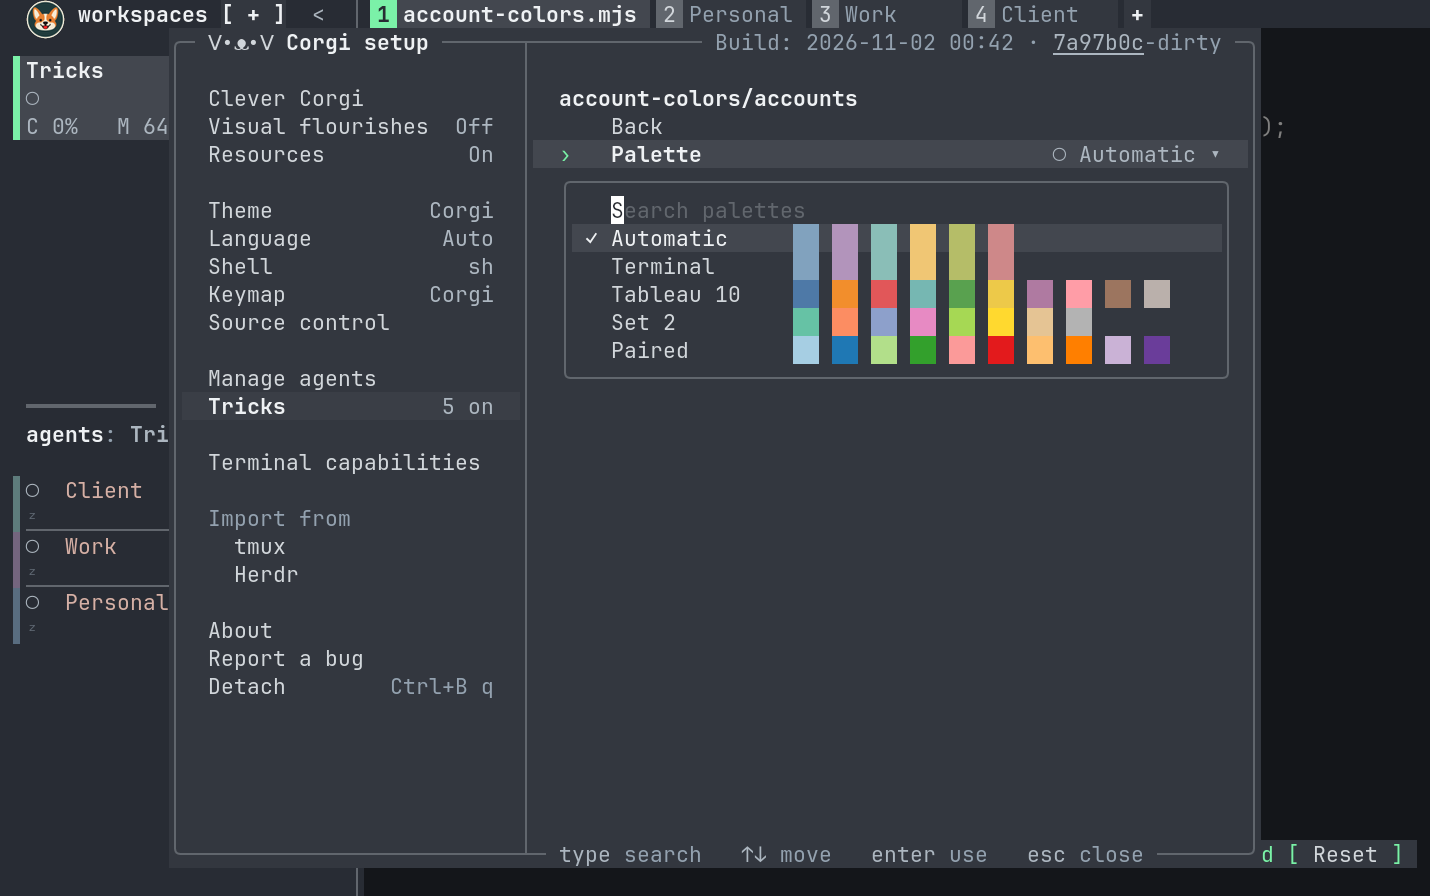
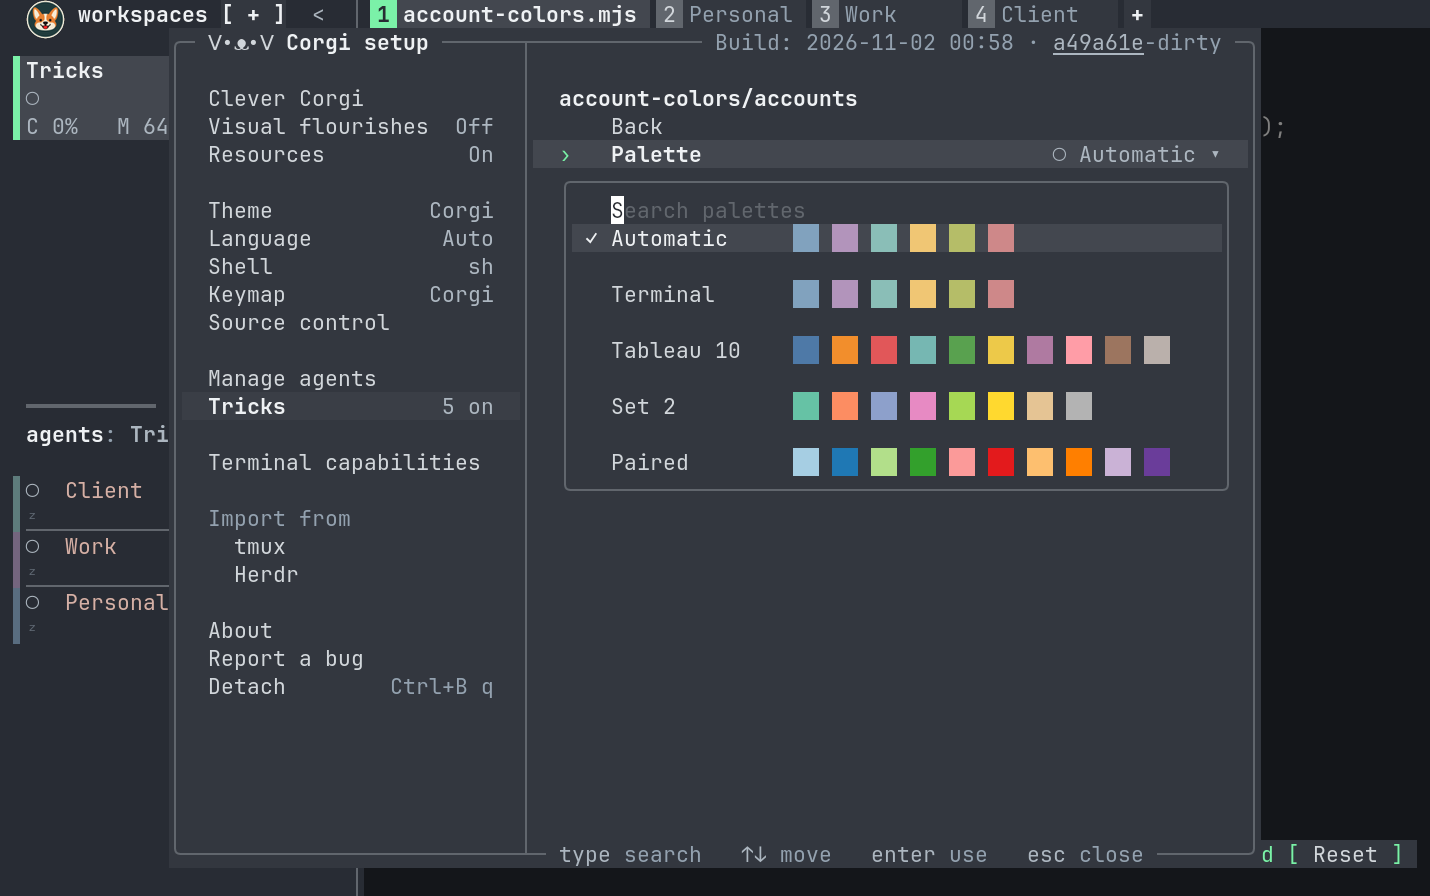
tricks: polish the palette editor
Align color swatches in one column and leave a blank row between palette
previews. Mouse selection follows the new spacing.

Account labels prefer the login email over the profile folder. Corgi now
exposes that email from its existing cached identity without waiting for a
usage read. Palette keys and saved color assignments stay intact.

diff --git a/src/corgi_setup.ts b/src/corgi_setup.ts
@@ -265,7 +265,7 @@ interface Option {
   glyph?: string;
   /** A dropdown in a group: the choice in use at the right edge, green while
    * `on`, and Enter opens `choices`. */
-  choice?: { text: string; on: boolean; choices: Choice[]; placeholder?: string };
+  choice?: { text: string; on: boolean; choices: Choice[]; placeholder?: string; gap?: number };
   /** A text field, in a box, that takes typing while it has the cursor. */
   edit?: boolean;
   slider?: number;
@@ -1152,7 +1152,7 @@ export class Menu {
         const search_width = modelColumns(choices, open.w).detail - 2;
         return x < open.x + 4 + search_width ? { model_search: x - open.x - 4 } : null;
       }
-      const index = dropdown.hit(open, this.dropdown?.visible.length ?? 0, x, y, true),
+      const index = dropdown.hit(open, this.dropdown?.visible.length ?? 0, x, y, true, this.dropdownGap(s, prefs)),
         at = index === null ? -1 : (this.dropdown?.visible[index] ?? -1);
       return at < 0 || (!choices[at]?.apply && !choices[at]?.more) ? null : { choice: at };
     }
@@ -1240,6 +1240,7 @@ export class Menu {
         { text: "", note: "", detail: this.item === "tricks" ? "" : i18n.t`Billing` },
         this.item === "tricks" ? undefined : columns.note,
         this.item === "tricks" ? undefined : columns.detail,
+        this.dropdownGap(s, prefs),
       );
       const x = open.x + 4,
         y = open.y + 1,
@@ -1359,6 +1360,10 @@ export class Menu {
       x0 = x + 2,
       right = x + width - 1,
       lines = this.lines(s, prefs, l),
+      color_w = Math.max(
+        0,
+        ...this.options(s, prefs).map(o => (o.color && o.choice ? displayWidth(o.choice.text) : 0)),
+      ),
       // Rows with their value at the right edge keep out of the label column.
       label_w = Math.max(
         0,
@@ -1483,7 +1488,7 @@ export class Menu {
           return;
         }
         case "option":
-          return this.drawOption(w, line, x, width, y, label_w, prefs, now_ms);
+          return this.drawOption(w, line, x, width, y, label_w, color_w, prefs, now_ms);
         case "picker":
           return this.import_picker.draw(w, pickerArea(l, i), this.focus === "options");
       }
@@ -1620,6 +1625,7 @@ export class Menu {
     width: number,
     y: number,
     label_w: number,
+    color_w: number,
     prefs: Preferences,
     now_ms: number,
   ) {
@@ -1663,7 +1669,7 @@ export class Menu {
         indent: o.indent,
       });
     if (o.choice !== undefined)
-      return settingRow.drawChoice(w, x, y, width, o.label, o.choice.text, o.choice.on, here, o.color);
+      return settingRow.drawChoice(w, x, y, width, o.label, o.choice.text, o.choice.on, here, o.color, color_w);
     if (o.edit) return this.drawField(w, x0, y, right, prefs);
     const p = settingRow.fill(w, x, y, width, here);
     if (o.mark !== "none")
@@ -1704,6 +1710,9 @@ export class Menu {
     }
     w.write("\x1b[22m");
   }
+  private dropdownGap(s: Status, prefs: Preferences): number {
+    return this.dropdown ? (this.options(s, prefs)[this.dropdown.option]?.choice?.gap ?? 0) : 0;
+  }
   /** The open dropdown's box, under its setting's row with ✓ under the ›;
    * null while it is closed. */
   private dropdownBox(l: Layout, s: Status, prefs: Preferences): Rect | null {
@@ -1713,8 +1722,9 @@ export class Menu {
     if (row < 0) return null;
     const choices = this.choices(s, prefs),
       count = choices.length,
-      h = Math.min(count + 3, l.body),
-      capacity = h - 3,
+      gap = this.dropdownGap(s, prefs),
+      h = Math.min(count + Math.max(0, count - 1) * gap + 3, l.body),
+      capacity = Math.floor((h - 3 + gap) / (gap + 1)),
       width = Math.min(l.b.w - 4, Math.max(l.options.w - 3, modelPreferredWidth(choices))),
       bottom = l.b.y + 2 + l.body;
     const view = dropdown.viewport(choices, d.top, d.at, capacity);
@@ -1866,6 +1876,7 @@ export class Menu {
                       text: trickPaletteUi.schemeName(picked.scheme),
                       on: picked.scheme !== null,
                       placeholder: i18n.t`Search palettes`,
+                      gap: 1,
                       choices: [
                         {
                           text: i18n.t`Automatic`,

diff --git a/src/dropdown.ts b/src/dropdown.ts
@@ -109,7 +109,8 @@ export function width(choices: Choice[], heading?: Heading): number {
   return indent(choices) + widest + 4;
 }
 /** Draws `choices` in `b`, under `heading` when present. `note_column` aligns
- * notes past that many cells of text and a two-cell gap. */
+ * notes past that many cells of text and a two-cell gap. `gap` leaves blank
+ * rows between choices. */
 export function draw(
   w: Writer,
   b: Rect,
@@ -117,6 +118,7 @@ export function draw(
   heading?: Heading,
   note_column?: number,
   detail_column?: number,
+  gap = 0,
 ): void {
   const border = new Style({ fg: "line", bg: "surface" }).sgr();
   for (let y = 0; y < b.h; y++) {
@@ -138,14 +140,16 @@ export function draw(
       writeEllipsis(w, heading.detail, Math.max(0, b.x + b.w - 2 - x));
     }
   }
-  choices.forEach((choice, i) => row(w, b, i + (heading ? 2 : 1), choice, indent(choices), note_column, detail_column));
+  choices.forEach((choice, i) =>
+    row(w, b, i * (gap + 1) + (heading ? 2 : 1), choice, indent(choices), note_column, detail_column),
+  );
   w.write("\x1b[0m");
 }
 /** The choice under (x, y) inside `b`'s border, or null; a heading row is no choice. */
-export function hit(b: Rect, count: number, x: number, y: number, heading = false): number | null {
+export function hit(b: Rect, count: number, x: number, y: number, heading = false, gap = 0): number | null {
   if (x <= b.x || x + 1 >= b.x + b.w || y <= b.y || y + 1 >= b.y + b.h) return null;
-  const index = y - b.y - (heading ? 2 : 1);
-  return index >= 0 && index < count ? index : null;
+  const index = (y - b.y - (heading ? 2 : 1)) / (gap + 1);
+  return Number.isInteger(index) && index >= 0 && index < count ? index : null;
 }
 export function row(
   w: Writer,

diff --git a/src/corgi_setup.test.ts b/src/corgi_setup.test.ts
@@ -15,7 +15,7 @@ import { Writer } from "./text";
 import * as releaseLabel from "./release_label";
 import type { Connection } from "./rpc";
 import { transport } from "./fixtures/transport";
-import { Style } from "./palette";
+import { Style, schemes } from "./palette";
 
 /** The screen's text after replaying the cursor moves in `ansi`. */
 function screen(ansi: string, cols: number, rows: number): string[] {
@@ -2106,8 +2106,17 @@ test("the palette editor accepts custom CSS colors and an explicit scheme", () =
   };
   menu.cursor = 1;
   menu.right(s, prefs);
-  expect(draw(menu, 120, 40, 0, s, prefs).join("\n")).toContain("Search palettes");
-  expect(menu.click({ choice: 2 }, s, prefs)).toMatchObject({ kind: "trick_palette_colors", ref: "example/accounts" });
+  const rows = draw(menu, 120, 40, 0, s, prefs),
+    tableau = rows.findIndex(row => row.includes("Tableau 10")),
+    set2 = rows.findIndex(row => row.includes("Set 2"));
+  expect(rows.join("\n")).toContain("Search palettes");
+  expect(set2 - tableau).toBe(2);
+  expect(menu.hit(120, 40, rows[tableau].indexOf("Tableau 10"), tableau + 1, s, prefs)).toBeNull();
+  expect(menu.click(choiceHit(menu, /Tableau 10/, s, prefs, 120, 40), s, prefs)).toEqual({
+    kind: "trick_palette_colors",
+    ref: "example/accounts",
+    colors: [...schemes.tableau10],
+  });
   menu.cursor = 2;
   menu.enter(s, prefs);
   for (const byte of Buffer.from("#f80")) menu.key(byte);

diff --git a/tests/tricks.test.ts b/tests/tricks.test.ts
@@ -104,11 +104,16 @@ class Tricks extends Runtime {
     const file = join(this.root, "account-colors/main.mjs");
     const source = readFileSync(file, "utf8") + "\n// Personal customization\n";
     writeFileSync(file, source);
+    writeFileSync(
+      join(this.env.CLAUDE_CONFIG_DIR!, ".claude.json"),
+      JSON.stringify({ oauthAccount: { emailAddress: "personal@example.com", accountUuid: "personal" } }),
+    );
     const pane = await this.agent("Default colors");
     await this.client!.focus(pane);
     await this.until(async () => (await this.client!.poll()).data.includes(trickUi.fg({ syntax: "string" })));
     const palette = JSON.parse(await this.run_cli("tricks", "palette", "show", "account-colors/accounts", "--json"));
     this.assertEqual(palette.assignments.length, 1);
+    this.assertEqual(palette.assignments[0].label, "Claude · personal@example.com");
     await this.run_cli("tricks", "palette", "set", palette.ref, palette.assignments[0].key, "#cc8844");
     await this.until(async () => (await this.client!.poll()).data.includes(trickUi.fg("#cc8844")));
     await this.rpc({ op: "tricks.configure", id: "account-colors", enabled: false });

diff --git a/src/accounts.test.ts b/src/accounts.test.ts
@@ -93,7 +93,27 @@ test("profile lookups expose the existing login key and cached structured metada
   expect(a.id).not.toBe(b.id);
   expect(a.loginId).toBe(accounts.identity("claude", one)!.id);
   expect(a.loginId).toBe(b.loginId);
+  expect(a.email).toBe("me@example.com");
+  expect(b.email).toBe("me@example.com");
   expect(a.usage).toBeNull();
+  const codex = join(home, ".codex-side");
+  mkdirSync(codex);
+  writeFileSync(
+    join(codex, "auth.json"),
+    JSON.stringify({
+      tokens: {
+        id_token:
+          "header." +
+          Buffer.from(JSON.stringify({ email: "codex@example.com", sub: "codex-login" })).toString("base64url") +
+          ".signature",
+      },
+    }),
+  );
+  expect(accounts.describe("codex", codex)).toMatchObject({ email: "codex@example.com", usage: null });
+  const api = join(home, ".codex-api");
+  mkdirSync(api);
+  writeFileSync(join(api, "auth.json"), JSON.stringify({ OPENAI_API_KEY: "fixture-key" }));
+  expect(accounts.describe("codex", api)?.email).toBeNull();
   const info = Object.assign(new Info(), {
     email: "me@example.com",
     type: "oauth" as const,

diff --git a/src/accounts.ts b/src/accounts.ts
@@ -133,13 +133,15 @@ export function describe(provider: Provider, account: string): Identity | null {
     now = Date.now();
   if (!dir) return null;
   if (found && now - found.at < 5000) return metadata(provider, found.value);
+  const login = identity(provider, account);
   const value = accountIdentity.read({
     id,
     name: (account ? label(provider, account) : defaultName(provider) || basename(dir))
       .replace(/[\x00-\x1f\x7f-\x9f]/g, "")
       .slice(0, 160),
     directory: dir,
-    loginId: identity(provider, account)?.id ?? null,
+    loginId: login?.id ?? null,
+    email: login?.email.includes("@") ? login.email : null,
   })!;
   if (descriptions.size >= 256) descriptions.delete(descriptions.keys().next().value!);
   descriptions.set(id, { at: now, value });

diff --git a/src/setting_row.ts b/src/setting_row.ts
@@ -92,10 +92,11 @@ export function drawChoice(
   on: boolean,
   here: boolean,
   color?: Rgb,
+  color_width = displayWidth(choice),
 ): void {
   const p = fill(w, x, y, width, here);
   if (color) {
-    const value = "   " + choice + " ▾";
+    const value = "   " + choice + " ".repeat(sat(color_width, displayWidth(choice))) + " ▾";
     drawValue(w, p, x, y, width, label, value, p.label);
     w.write(at(x + width - 2 - displayWidth(value), y));
     palette.chips(w, [color], 2, p.background);

diff --git a/src/trick_host.ts b/src/trick_host.ts
@@ -159,7 +159,7 @@ export class Host {
         return {
           key,
           label: agent?.account
-            ? adapter(agent.provider).name + " · " + agent.account.name
+            ? adapter(agent.provider).name + " · " + (agent.account.email ?? agent.account.name)
             : typeof key === "string"
               ? key
               : encoded,

diff --git a/docs/tricks.md b/docs/tricks.md
@@ -409,6 +409,8 @@ colors, including `string`, `keyword`, `type`, `number` and `property`.
 palette. `await color(key)` returns a color, durably assigning a slot on first use.
 The key can be a string, finite number, boolean, null, or an array of those values.
 Use `agent.account.id` for accounts; skip unresolved accounts.
+The editor labels accounts with their provider and login email when known,
+falling back to the profile name. Labels do not change the saved mapping keys.
 Distinct keys take successive slots, cycling after the palette is exhausted.
 Existing assignments never move when other keys appear or disappear.
 
